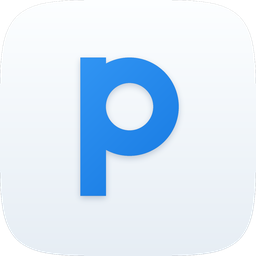
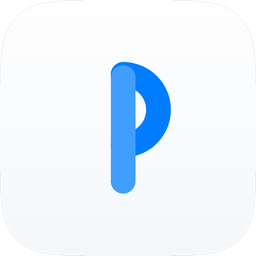
style(ui): 应用图标改为白底双蓝圆头笔画字标方案
- 白色 squircle 容器，字标以圆头笔画构筑的小写 p 呈现
- 深蓝碗部垫底、浅蓝竖笔前景层叠咬合，小尺寸识别度更好
- 自适应前景字形构图与安全区约束不变

Changed region(s): [[0.2812, 0.2188, 0.7188, 0.7812]]

diff --git a/CHANGELOG.md b/CHANGELOG.md
@@ -18,8 +18,8 @@
 ### 优化
 
 - 重绘了应用图标：
-  - 采用 HyperOS 风格超椭圆（squircle）容器，浅白渐变底搭配蓝色几何字标，替换原先被遮罩裁切的双色圆形背景。
-  - 字标重绘为几何均匀笔画的小写 p，方形端点硬朗利落，圆形碗部与笔画比例均衡，全尺寸下识别性更好。
+  - 采用 HyperOS 风格超椭圆白色容器，字标改用圆头笔画构筑，替换原先被遮罩裁切的双色圆形背景。
+  - 小写 p 字标以深浅双蓝层叠咬合构成：深蓝碗部垫底、浅蓝竖笔前景，延续应用蓝色品牌基因。
   - 自适应图标三层重构：整幅浅色背景、安全区纯字形前景、规范单色层（Android 13+ 主题图标不再误用含背景的前景图）。
   - Android 全密度传统图标与桌面端图标同步更新，Windows icon.ico 升级为 16–256 多尺寸。
 - 优化了大屏设备上作品详情页的浏览体验：
